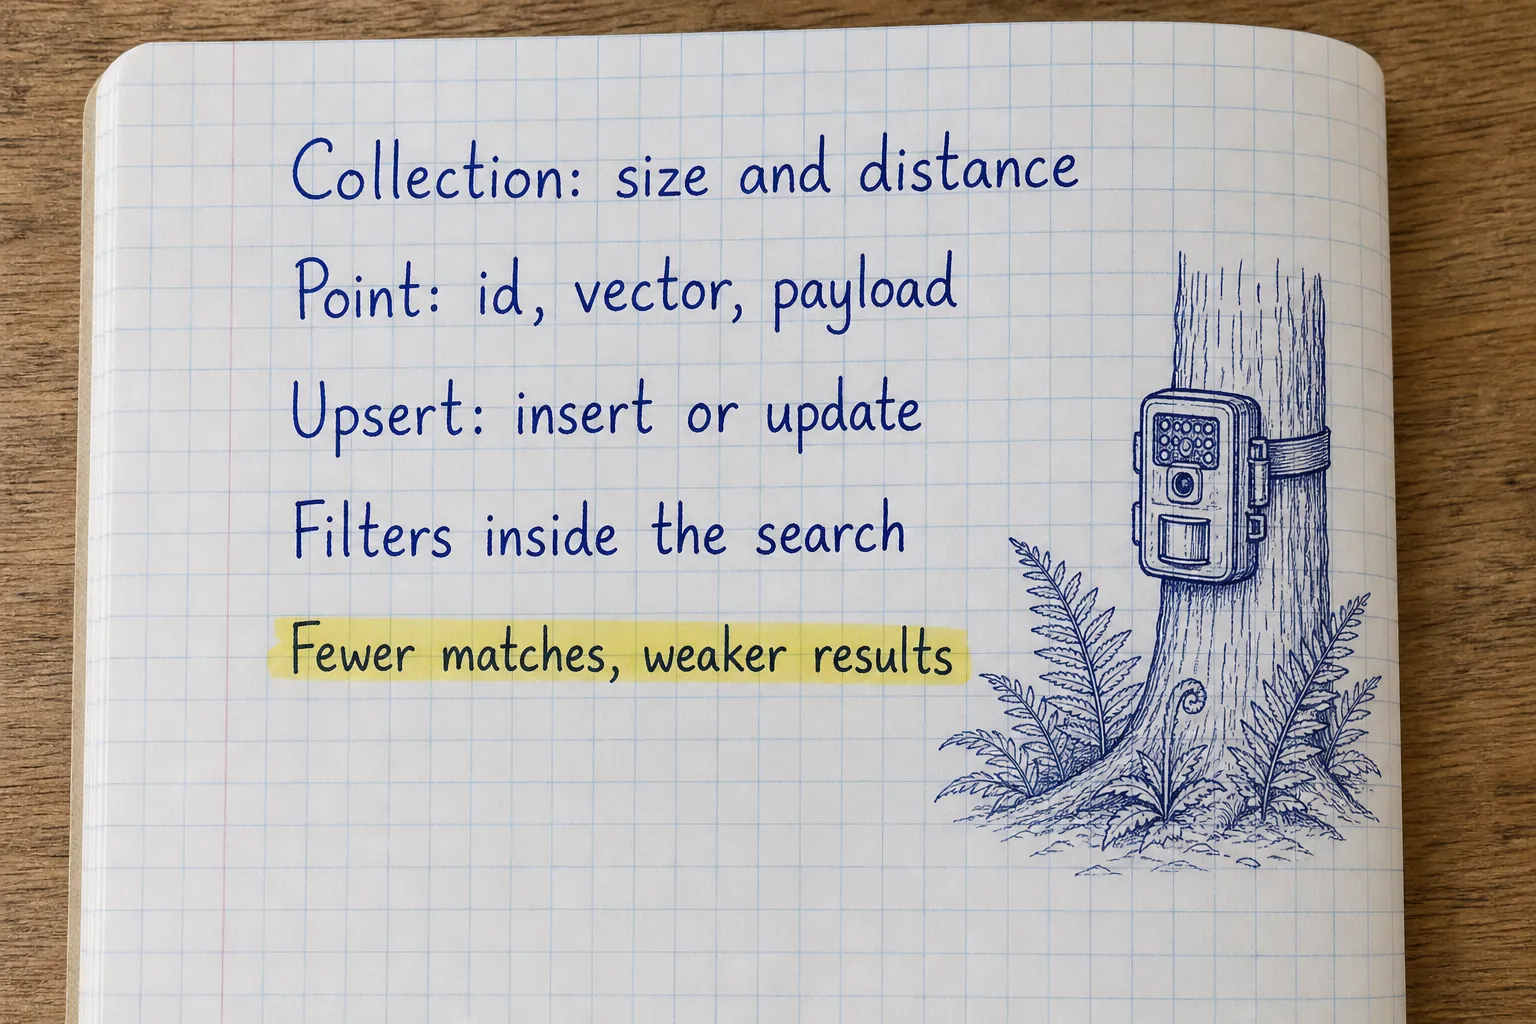
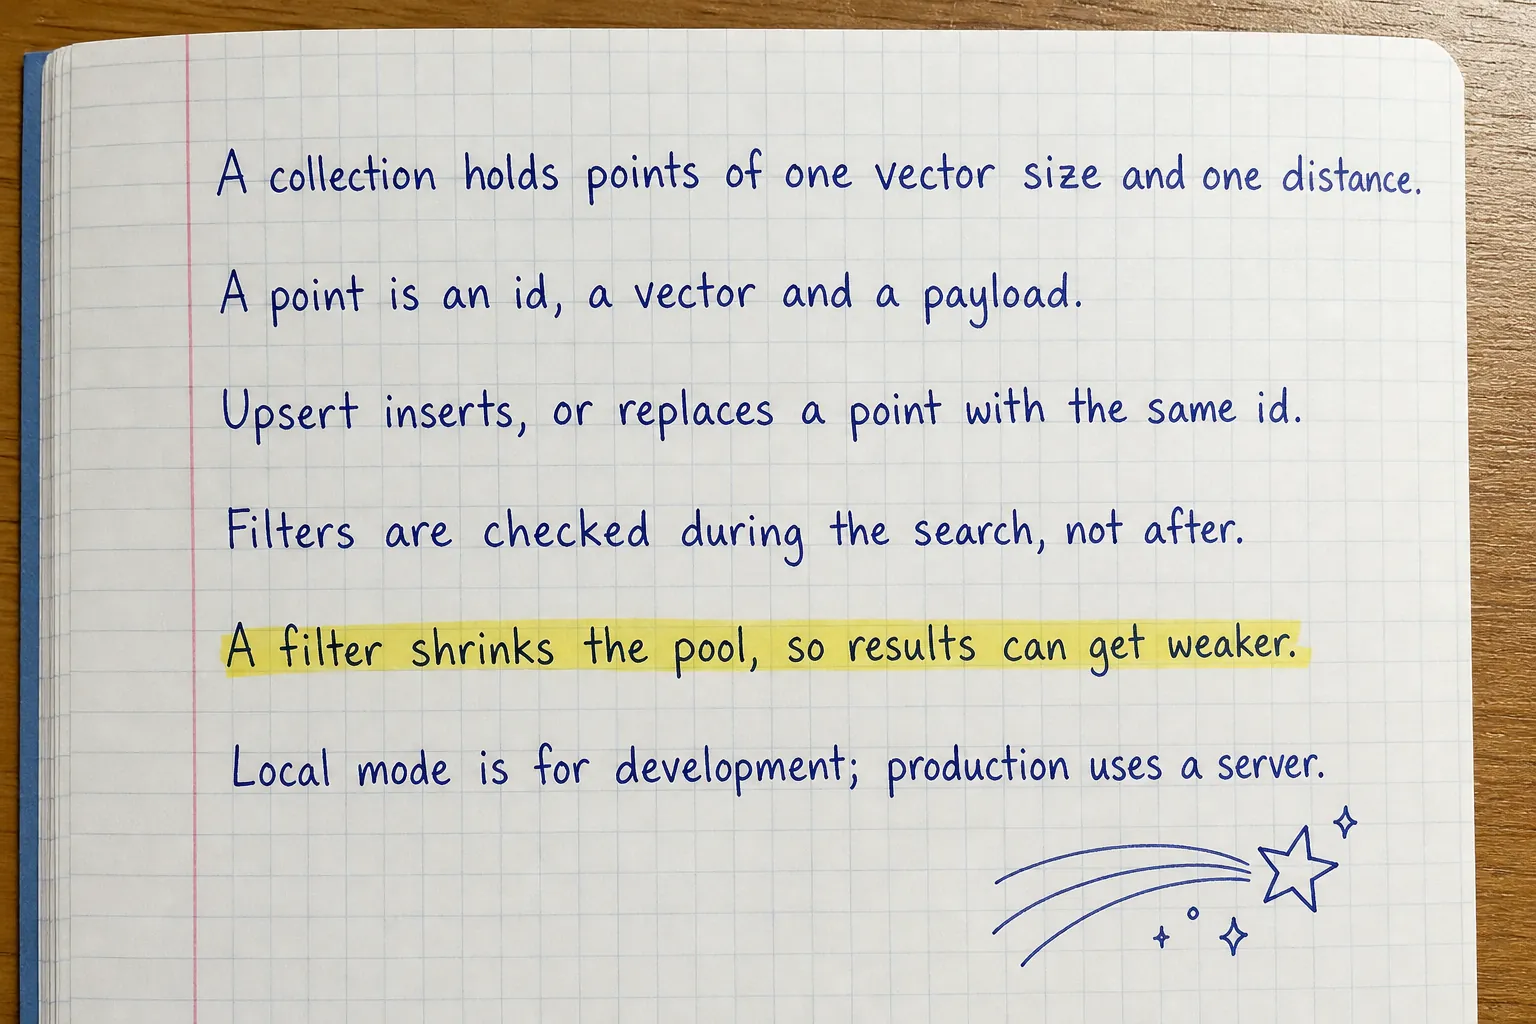
RAG chapter 8 rewritten: plain and fuller, a still filter picture with real results, claims checked and corrected

diff --git a/frontend/src/lesson/Diagrams.tsx b/frontend/src/lesson/Diagrams.tsx
@@ -3556,6 +3556,39 @@ function RagBinary() {
   );
 }
 
+function RagFilter() {
+  // Real results from store.py: "a leopard near people", wanted: reports from the buffer zone, k = 3.
+  const after: [string, string, boolean][] = [
+    ["FM-4.3  manual  0.739", "dropped: not a report", false],
+    ["R-0410  buffer  0.686", "kept", true],
+    ["R-0407  tourism  0.664", "dropped: tourism zone", false],
+  ];
+  const inside: [string, string][] = [
+    ["R-0410  buffer  0.686", "leopard in Rajur"],
+    ["R-0302  buffer  0.650", "leopard took a goat"],
+    ["R-0307  buffer  0.554", "gaur herd: weaker"],
+  ];
+  const row = (y: number, label: string, kept: boolean, note: string, k: string) => (
+    <g key={k} style={{ opacity: kept ? 1 : 0.5 }}>
+      <Box x={0} y={y} w={250} h={28} label={label} tone={kept ? "copy" : "plain"} code />
+      {!kept && <line x1={12} y1={y + 14} x2={238} y2={y + 14} className="dg-arrow" style={{ markerEnd: "none" }} />}
+      <text className="dg-note" x={262} y={y + 19}>{note}</text>
+    </g>
+  );
+  return (
+    <Svg viewBox="0 0 440 400" label="Filtering after the search leaves one result; filtering inside the search returns three">
+      <text className="dg-note" x={0} y={16}>Question: a leopard near people. Wanted: reports from the</text>
+      <text className="dg-note" x={0} y={34}>buffer zone, k = 3. Real scores from store.py.</text>
+      <text className="dg-label" x={0} y={68}>Filter after: take the top 3, then drop</text>
+      <g className="dg-cells-small">{after.map(([l, n, k], i) => row(80 + i * 34, l, k, n, `a${i}`))}</g>
+      <Box x={0} y={186} w={250} h={28} label="1 result" tone="highlight" />
+      <text className="dg-label" x={0} y={250}>Filter inside the search</text>
+      <g className="dg-cells-small">{inside.map(([l, n], i) => row(262 + i * 34, l, true, n, `i${i}`))}</g>
+      <Box x={0} y={368} w={250} h={28} label="3 results" tone="highlight" />
+    </Svg>
+  );
+}
+
 function RagTwoStage() {
   return (
     <SketchSteps
@@ -3581,6 +3614,7 @@ const DIAGRAMS: Record<string, () => JSX.Element> = {
   "rag-ivf": RagIvf,
   "rag-hnsw": RagHnsw,
   "rag-binary": RagBinary,
+  "rag-filter": RagFilter,
   "rag-two-stage": RagTwoStage,
   "rs-cli": RsCli,
   "rs-rc-refcell": RsRcRefCell,

diff --git a/labs/rag-vector-databases/chapters/08-qdrant.md b/labs/rag-vector-databases/chapters/08-qdrant.md
@@ -1,17 +1,18 @@
 :::step{type=story title="Only the reports, only the buffer zone"}
 The range officer asks Fieldbook: *"Leopards near people: what happened in the buffer zone villages this spring?"* The
 nearest chunk by meaning is FM-4.3, the manual's section on leopards near villages. Useful, but it is not what she asked.
-She wants **patrol reports**, and only those from the **buffer zone**.
+She wants **patrol reports**, and only those from the **buffer zone**, the belt of villages around the protected core.
 
 Your NumPy matrix knows nothing about kinds of documents or zones; it only holds numbers. Real searches nearly always come
-with conditions like these: this customer's documents only, this year only, only what this user may see. Keeping vectors
-**together with their data**, and searching with conditions, is the job of a **vector database**.
+with conditions like these: this customer's documents only, this year only, only what this user may see. A system that
+keeps vectors **together with their data** and searches with conditions is a **vector database**.
 
-You have now built every part of one yourself: embeddings, exact search, IVF, HNSW, quantization. Time to use a real
-one. Fieldbook uses **Qdrant**, an open-source vector database written in Rust, through its Python client. The client has
-a **local mode** that runs the same API inside your Python process, with no server to install; in production you change
-one line to talk to a Qdrant server.
-
+You have now built the main parts of one yourself: embeddings, exact search, IVF, HNSW and quantization. Time to use a
+real one. Fieldbook uses **Qdrant**, an open-source vector database written in the Rust programming language. Your
+Python code talks to it through a **client**: a Python library that sends your requests to Qdrant and returns the
+answers. The client also has a **local mode** that runs Qdrant's features inside your own Python program, with no
+server to install. It is meant for development and small collections. In production you change one line, and the same
+code talks to a Qdrant server.
 
 An Indian leopard: far more often seen near villages than tigers, and the subject of the range officer's question.
 
@@ -25,19 +26,22 @@ filters: reports only, one zone only.
 :::
 
 :::step{type=concept title="Collections, points, payloads" file="08-qdrant/fieldbook.py" line="260-269"}
-Qdrant's vocabulary is small:
+Qdrant uses four words, and each maps to something you already have:
 
 | Word | Means | In Fieldbook |
 |---|---|---|
-| **collection** | a named set of points with the same vector size and distance | `"fieldbook"`, 384 numbers, cosine |
-| **point** | one item: an id, a vector, a payload | one chunk |
-| **id** | a whole number or a UUID | the chunk's position, 0 to 54 |
-| **payload** | any JSON data stored with the vector | the chunk itself: id, title, text, kind, zone, beat, date |
+| **collection** | a named set of points; all its vectors have the same size and are compared the same way | `"fieldbook"`: 384 numbers (bge-small's size), cosine |
+| **point** | one stored item: an id, a vector and a payload | one chunk |
+| **id** | the point's name: a whole number (0 or more) or a UUID, a 36-character random identifier | the chunk's position, 0 to 54 |
+| **payload** | any JSON data stored next to the vector (JSON is the common text format for keys and values, like a Python dict) | the chunk itself: id, title, text, kind and zone; reports also have beat and date |
+
+Fieldbook's 55 chunks are 31 manual sections (`kind` "manual", `zone` "all") and 24 patrol reports (`kind` "report";
+15 from the core zone, 6 from the buffer zone, 3 from the tourism zone).
 
 Creating a collection and adding points:
 
 ```python
-client = QdrantClient(":memory:")                     # local mode: in this process, in memory
+client = QdrantClient(":memory:")                     # local mode: inside this program, in memory
 client.create_collection(
     "fieldbook",
     vectors_config=models.VectorParams(size=384, distance=models.Distance.COSINE),
@@ -48,8 +52,15 @@ client.upsert("fieldbook", points=[
 ])
 ```
 
-**Upsert** means insert, or update if the id already exists: run it twice and you still have 55 points. Vectors go in as
-plain lists (`v.tolist()`), because the client sends JSON to a server.
+Line by line:
+
+- `QdrantClient(":memory:")` opens local mode, keeping everything in memory; it is gone when the program ends.
+- `create_collection` names the collection and fixes two things for every vector in it: its size and its **distance**,
+  the way two vectors are compared. Cosine is what chapters 2 and 3 used.
+- `upsert` stores points. **Upsert** means insert, or update if the id already exists: run it twice and you still have
+  55 points.
+- `v.tolist()` turns a NumPy row into a plain Python list. This version of the client (1.20) also accepts a NumPy
+  array, but a plain list works with every version and with a remote server.
 
 Because the payload is the chunk, a search result already carries the text to show the model: no second lookup.
 :::
@@ -59,15 +70,24 @@ Write `make_store(chunks, vectors)`:
 
 1. `client = QdrantClient(":memory:")`.
 2. Create the collection `COLLECTION` with `models.VectorParams(size=vectors.shape[1], distance=models.Distance.COSINE)`.
-3. Upsert one `models.PointStruct(id=i, vector=v.tolist(), payload=c)` for every chunk `c` and its vector `v`
-   (`enumerate(zip(chunks, vectors))`).
+   (`vectors.shape[1]` is the number of numbers per vector, 384 here; reading it from the data means the code still
+   works with another model.)
+3. Upsert one `models.PointStruct(id=i, vector=v.tolist(), payload=c)` for every chunk `c` and its vector `v`. A list
+   comprehension over `enumerate(zip(chunks, vectors))` gives you `i`, `c` and `v` together.
 4. Return the client.
+
+The usual slips:
+
+- Writing `size=384` by hand: it works here, but breaks the day you switch models.
+- Using the chunk's text id (`"FM-1.1"`) as the point id: Qdrant accepts only whole numbers or UUIDs. Keep the text id
+  in the payload.
 
 Press **Check**.
 :::
 
 :::step{type=concept title="Search with conditions" file="08-qdrant/fieldbook.py" line="272-279"}
-A Qdrant query takes the vector, how many results you want, and optionally a **filter** on the payloads:
+A Qdrant query takes the question's vector, how many results you want, and optionally a **filter**: conditions on the
+payload that a point must meet.
 
 ```python
 models.Filter(must=[
@@ -76,27 +96,42 @@ models.Filter(must=[
 ])
 ```
 
-`must` means every condition has to hold (AND). Qdrant also has `should` (at least one, OR) and `must_not` (NOT), and
-conditions for ranges (dates, numbers), lists of values, text and geographic areas.
+- A `FieldCondition` names a payload key and the value it must have.
+- `must` means every condition in the list has to hold (AND). Qdrant also has `should` (at least one must hold, OR) and
+  `must_not` (none may hold, NOT), and conditions for ranges (dates, numbers), lists of allowed values, words in a text
+  and geographic areas.
 
-The filter is applied **during** the search, not afterwards. That difference matters: if you took the 3 nearest chunks
-first and then threw away the ones from the wrong zone, you might be left with none. Filtering inside the search always
-returns the 3 nearest chunks **among those that match**.
+**The filter is applied during the search, not afterwards.** That difference matters. If you took the 3 nearest chunks
+first and then threw away the ones that do not match, you might be left with fewer than 3, or none, even when matching
+chunks exist further down the list. Filtering during the search returns the 3 nearest chunks **among those that match**.
+In local mode the search is exact, so these are exactly the 3 nearest matches. A Qdrant server with an HNSW index
+checks the filter while it walks the graph, so it returns them approximately, like any HNSW search.
+
+:::diagram{name="rag-filter"}
+The real question from this chapter. Filtering after a top-3 search keeps only R-0410; filtering inside the search
+returns three buffer-zone reports, the third one weaker.
+:::
 
 ```python
 hits = client.query_points("fieldbook", query=query_vector.tolist(), limit=3, query_filter=the_filter).points
 ```
 
-Each hit has `.payload` (the chunk), `.score` (the cosine) and `.id`.
+Each hit has `.payload` (the chunk), `.score` (the cosine similarity) and `.id`.
 :::
 
 :::step{type=task task=filtered_search title="Your turn: search with payload filters" file="08-qdrant/fieldbook.py" line="272-279"}
 Write `filtered_search(client, query_vector, k=5, kind=None, zone=None)`:
 
-1. Make a `FieldCondition` for `kind` if it is not `None`, and one for `zone` if it is not `None`.
+1. Build a list of conditions: a `FieldCondition` for `kind` if it is not `None`, and one for `zone` if it is not `None`.
 2. Call `client.query_points(COLLECTION, query=query_vector.tolist(), limit=k, query_filter=...)`, passing
-   `models.Filter(must=conditions)` when there are conditions and `None` when there are none.
-3. Return `[dict(hit.payload, score=hit.score) for hit in ...points]`.
+   `models.Filter(must=conditions)` when the list has conditions and `None` when it is empty.
+3. Return `[dict(hit.payload, score=hit.score) for hit in ...points]`: each chunk with its score added.
+
+The usual slips:
+
+- Forgetting `.points` at the end of `query_points(...)`: the call returns a response object, and the hits are inside.
+- Adding a condition for every argument, even when it is `None`: the client refuses `MatchValue(value=None)` with a
+  `ValidationError`. Skip the arguments that are `None`.
 
 ```bash run
 cd /workspace/08-qdrant && python store.py
@@ -111,12 +146,20 @@ Teams kept their vectors in a FAISS index in memory and their data in a separate
 matching ids, saving and reloading the index, filtering, updates, backups.
 :::
 
-Vector search libraries came first: Spotify's **Annoy** (**2013**), **FAISS** (**2017**), hnswlib (**2018**). Then
-databases built around them, with storage, payloads, filters and APIs: **Milvus** (open-sourced **2019**), **Weaviate**
-(**2019**), **Pinecone** (a managed service, generally available in **2021**), **Qdrant** (first released in **2021**,
-written in Rust in Berlin), **Chroma** (**2022**). Existing databases added vectors too: Andrew Kane's **pgvector** for
-Postgres (**2021**), and HNSW in Lucene, so in Elasticsearch and OpenSearch. When RAG took off in **2023**, vector
-databases went from a niche to one of the busiest corners of the database world.
+Vector search **libraries** came first: code you call from your own program. Spotify's **Annoy** (**2013**), Facebook's
+**FAISS** (**2017**), and hnswlib, the HNSW library from the method's first author, Yury Malkov.
+
+Then came **databases** built around such search, with storage, payloads, filters and network access:
+
+- **Weaviate**, an open-source project since **2016** (version 1.0 in **2021**);
+- **Milvus**, open-sourced in **2019**;
+- **Pinecone**, a managed service, launched publicly in **2021**;
+- **Qdrant**, first released in **2021**, written in Rust, from Berlin;
+- **Chroma**, first released in **2022**.
+
+Existing databases added vectors too: Andrew Kane's **pgvector** for Postgres (**2021**), and HNSW in Lucene 9 (**2021**),
+the search library inside Elasticsearch and OpenSearch. When RAG took off in **2023**, vector databases went from a niche
+to one of the busiest corners of the database world.
 
 :::solved
 **Vectors and data together.** One system stores, filters, searches, updates and backs up both, so the application only
@@ -125,9 +168,10 @@ asks questions.
 
 :::timeline
 - **2013** Annoy (Spotify).
+- **2016** Weaviate starts as an open-source project.
 - **2017** FAISS.
-- **2019** Milvus and Weaviate open-sourced.
-- **2021** Qdrant, pgvector, Pinecone generally available.
+- **2019** Milvus open-sourced.
+- **2021** Qdrant, pgvector, Pinecone launched; HNSW in Lucene.
 - **2023** RAG makes vector databases mainstream.
 :::
 :::
@@ -153,14 +197,18 @@ $ python store.py
   0.554  [R-0307] Patrol report R-0307, 2026-03-18, beat B-09
 ```
 
-1. **No filter:** the manual's leopard section wins, then two reports.
-2. **Reports only:** the manual drops out, and a third report comes in: R-0302, the leopard that took a goat in Pimpri.
-3. **Reports from the buffer zone:** R-0407 (a leopard on the safari viewpoint, in the tourism zone) drops out. The two
-   buffer-zone leopard reports remain, and the third place goes to R-0307, which is about **gaur**, not leopards.
+What changed each time:
 
-That last line is worth a second look. A filter makes the pool smaller; the search still returns `k` results, the
-nearest ones that are left, however weak. Only two buffer-zone reports mention leopards, so the third is the next
-closest thing: its score (0.554) is clearly lower. Chapter 11 decides what to do with weak results.
+1. **No filter:** the manual's leopard section wins, then two reports.
+2. **Reports only:** the manual drops out, and a third report comes in: R-0302, the leopard that took a goat in Pimpri
+   village.
+3. **Reports from the buffer zone:** R-0407 (a leopard resting at a safari viewpoint, in the tourism zone) drops out.
+   The two buffer-zone leopard reports remain (R-0410 in Rajur village, R-0302 in Pimpri), and third place goes to
+   R-0307, which is about a herd of **gaur**, not leopards.
+
+That last line is worth a second look. A filter makes the pool smaller; the search still returns up to `k` results, the
+nearest ones that are left, however weak. Only two of the six buffer-zone reports mention leopards, so the third result
+is the next closest thing, and its score (0.554) is clearly lower. Chapter 11 decides what to do with weak results.
 
 The animal in the third result: a gaur, the Indian bison, the subject of report R-0307.
 
@@ -171,7 +219,7 @@ A gaur in the Anaimalai hills.
 
 :::step{type=predict title="Guess first"}
 :::question
-You search for 5 results with zone="tourism" and kind="report". Only three reports are from the tourism zone. How many results come back?
+You search for 5 results with zone="tourism" and kind="report". Fieldbook has exactly three reports from the tourism zone. How many results come back?
 :::
 - [ ] 5: Qdrant fills up with other zones
 - [x] 3: only points that match the filter can be returned
@@ -189,8 +237,8 @@ Why filter inside the search rather than take the top 3 and then drop the wrong 
 - [ ] Filtering afterwards is impossible in Python
 - [ ] Filtering inside changes the scores
 :::explain
-This is called pre-filtering (inside) against post-filtering (after). Databases work hard to make pre-filtering fast with
-HNSW.
+Dropping afterwards is called post-filtering. In this chapter it would leave one result (R-0410) where three exist.
+Vector databases work hard to check filters during the search itself, even inside an HNSW graph.
 :::
 :::
 
@@ -207,25 +255,25 @@ Stable ids make re-loading safe. Use ids that belong to the document (or a UUID 
 :::
 
 :::step{type=deep-dive title="Go deeper: Qdrant and its alternatives in production"}
-**From local mode to a server.** `QdrantClient(path="qdrant_data")` keeps the collection on disk between runs. A server is
-one Docker command (`docker run -p 6333:6333 qdrant/qdrant`) and one changed line:
-`QdrantClient(url="http://localhost:6333")`. The server builds a real HNSW index (local mode searches by brute force,
-which is fine for thousands of points), supports quantization (chapter 7) with rescoring, and adds snapshots and
-replication.
+**From local mode to a server.** `QdrantClient(path="qdrant_data")` keeps the collection on disk between runs. A server
+is one Docker command (`docker run -p 6333:6333 qdrant/qdrant`) and one changed line:
+`QdrantClient(url="http://localhost:6333")`. Local mode compares the question with every point (exact search, fine for
+small collections). The server builds a real HNSW index, supports quantization with rescoring (chapter 7), and adds
+snapshots (backups) and replication (copies on several machines).
 
 **Payload indexes.** For fast filters on large collections, tell the server which payload fields you filter on:
 `client.create_payload_index("fieldbook", "zone", "keyword")`.
 
-**Which database?**
+**Which one?** A rough guide, not a rule:
 
 | Option | Good when |
 |---|---|
-| NumPy or FAISS in memory | under about 100,000 vectors, one process, rebuilt at start |
+| NumPy or FAISS inside your program | one program, the vectors fit in memory, loaded or rebuilt at start |
 | pgvector | you already run Postgres and want vectors next to your tables, in SQL |
 | Qdrant, Weaviate, Milvus | vectors are the main workload: filters, quantization, scale, hybrid search |
 | A managed service (Pinecone and others) | you do not want to run servers |
 
-They all do what you built in chapters 3 to 7. Compare them on your data with chapter 12's measurements.
+They are all built on the ideas of chapters 3 to 7. Compare them on your own data with chapter 12's measurements.
 :::
 
 :::step{type=recap}
@@ -233,12 +281,12 @@ You can now:
 
 - explain collections, points, ids and payloads;
 - create a Qdrant collection and upsert chunks with their metadata;
-- search with payload filters (must, should, must_not), and know why filtering happens inside the search;
+- search with payload filters (must, should, must_not), and explain why filtering happens inside the search;
 - read a filtered result honestly: a smaller pool can return weaker matches.
 
 That ends Part 2. Next, chapter 9: when exact words beat meaning, and how to get both.
 
-:::photo{src="/lesson-images/rag/rag-08-notes.webp" alt="Handwritten notes about Qdrant: Collection: size and distance; Point: id, vector, payload; Upsert: insert or update; Filters inside the search; Fewer matches, weaker results" ai="true"}
+:::photo{src="/lesson-images/rag/rag-08-notes.webp" alt="Handwritten notes about Qdrant: A collection holds points of one vector size and one distance. A point is an id, a vector and a payload. Upsert inserts, or replaces a point with the same id. Filters are checked during the search, not after. A filter shrinks the pool, so results can get weaker. Local mode is for development; production uses a server." ai="true"}
 One page of notes for this chapter.
 :::
 :::

diff --git a/CHANGELOG.md b/CHANGELOG.md
@@ -1,5 +1,18 @@
 # Changelog
 
+## 25 November: RAG chapter 8 rewritten (easy, a little detailed, checked)
+
+- Clients, local mode, collections, points, ids, UUIDs, payloads and JSON, distance, upsert and filters are explained
+  where they first appear; the store code is read line by line; tasks list their steps and the usual slips (each slip
+  tested in the lab image: a text id is refused as "not a valid UUID", `MatchValue(value=None)` raises a ValidationError).
+- A new still picture, `rag-filter`: the chapter's real question filtered after a top-3 search (1 result, R-0410) and
+  inside the search (3 results, the third a weaker gaur report).
+- Checked by re-running `store.py`, counting the payloads (31 manual sections with zone "all"; 24 reports: 15 core, 6
+  buffer, 3 tourism) and searching the history. Corrected: "vectors go in as lists because the client sends JSON" (client
+  1.20 accepts NumPy arrays; local mode sends no JSON); manual chunks have no beat or date; Weaviate is open source since
+  2016 (1.0 in 2021), not "2019"; hnswlib's year (not confirmed) dropped; Lucene 9 added. Also chapter 4's last line:
+  IVF is not "inside every vector database" (Qdrant uses HNSW only). A new notes page.
+
 ## 25 November: RAG chapter 7 rewritten (easy, a little detailed, checked)
 
 - float32, bits and bytes, RAM, int8, columns and scales, codes, XOR, the Hamming distance, shortlists and rescoring are

diff --git a/labs/rag-vector-databases/chapters/04-chunking.md b/labs/rag-vector-databases/chapters/04-chunking.md
@@ -258,7 +258,7 @@ You can now:
 - measure a way of cutting by how often search finds the right section and how much the model must read;
 - explain why chunks about one thing beat both tiny and huge ones.
 
-That ends Part 1. Next, chapter 5: the first of the indexes inside every vector database.
+That ends Part 1. Next, chapter 5: IVF, the first of the two kinds of index this course builds (the other, HNSW, is chapter 6).
 
 :::photo{src="/lesson-images/rag/rag-04-notes.webp" alt="Handwritten notes about chunking: Documents are cut into chunks; each chunk gets a vector. Too small: a chunk loses its context. Too big: its vector blurs several topics. Overlap keeps border sentences whole. Cut along headings and put the title first. Measure on your own questions." ai="true"}
 One page of notes for this chapter.
